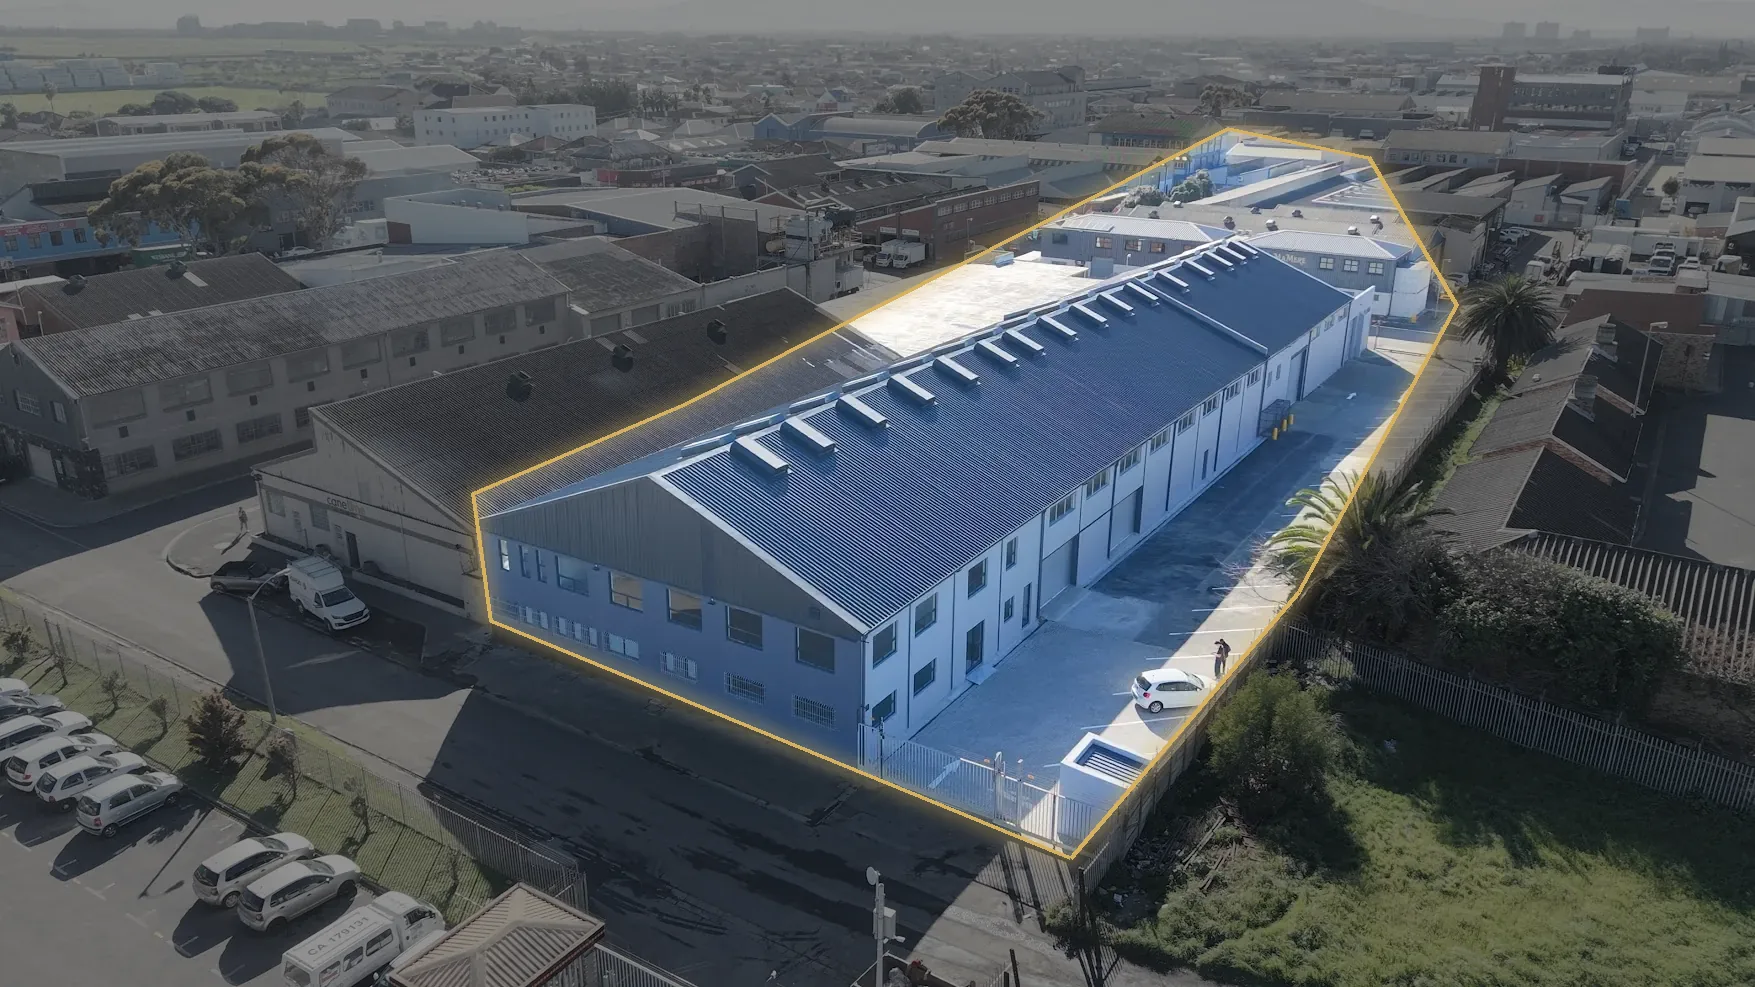
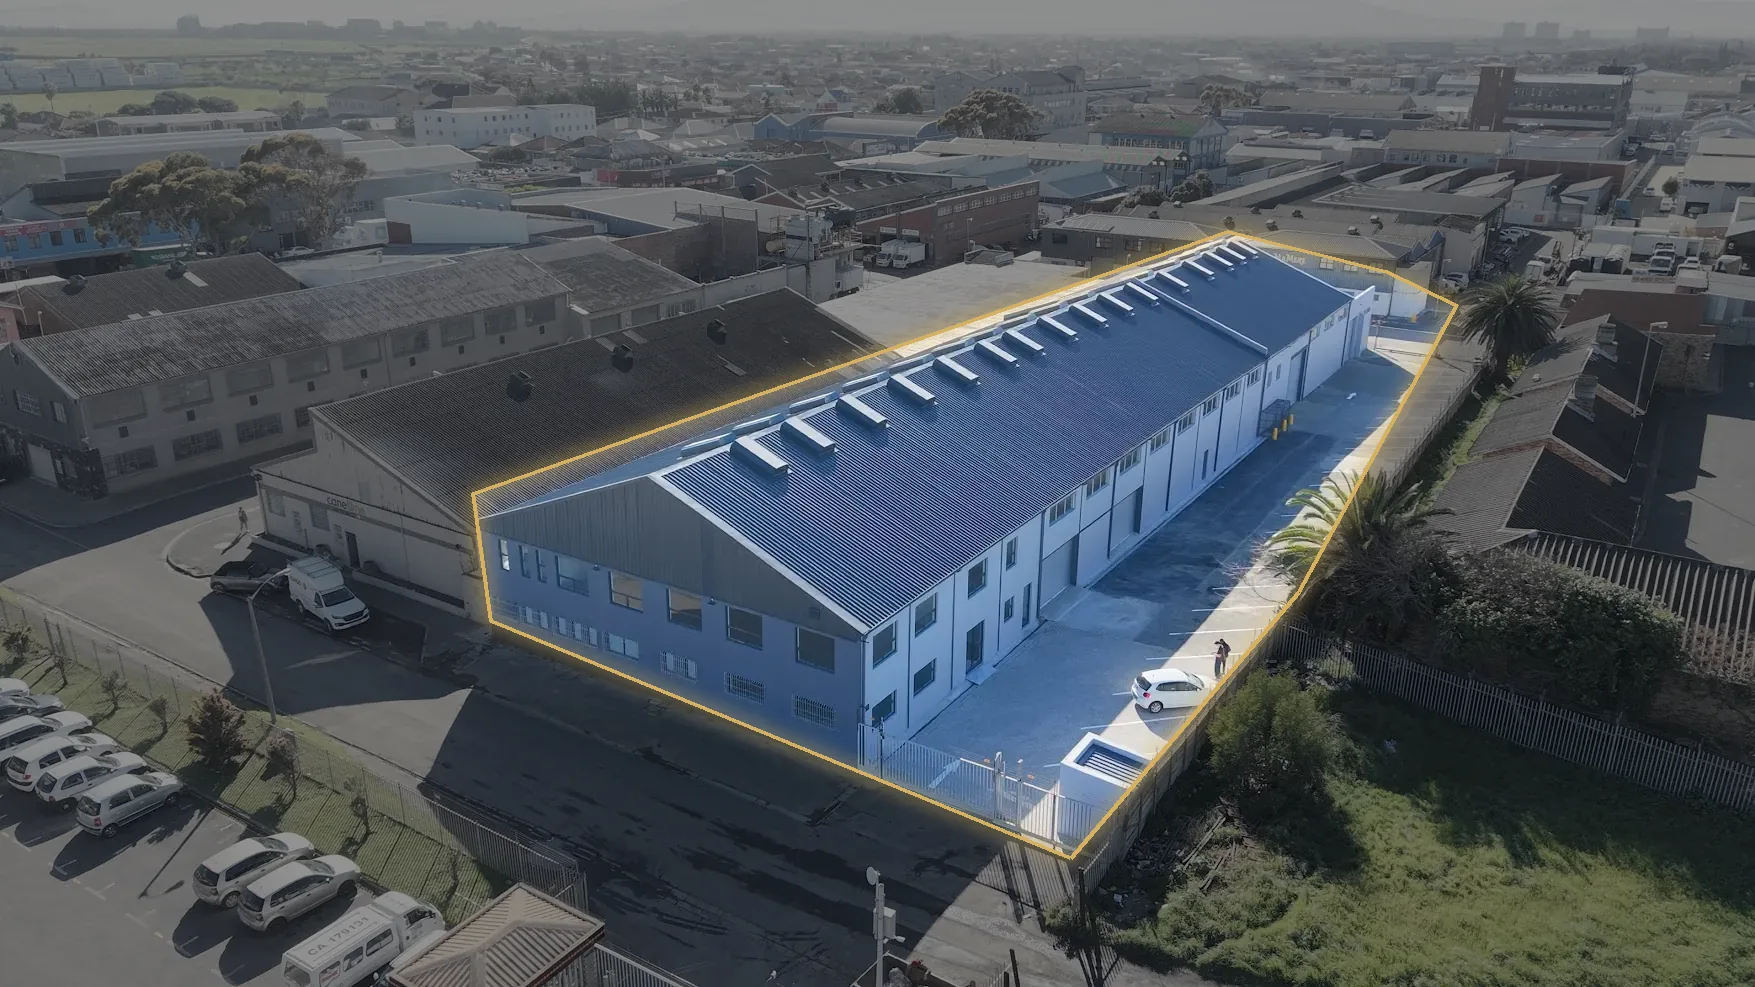
Tighten the Loop Street outline; real Canvas events and solar photos
The 9 Loop Street hero and before outlines now stop at the back of our
building instead of running onto the neighbouring properties. Canvas gets
its own photos for events (case study) and rooftop solar (case study,
Sustainability page and its hero slides), resized to webp with blur
previews; the solar stand-in is removed.

Claude-Session: https://claude.ai/code/session_01BD6pcECZbyAXh6RgtrXw5H

Changed region(s): [[0.3385, 0.1216, 0.8308, 0.4559], [0.2769, 0.4559, 0.3385, 0.4863]]

diff --git a/src/lib/media.ts b/src/lib/media.ts
@@ -24,7 +24,6 @@ import photo_canvas_breakout from "@/assets/photos/canvas-breakout.webp";
 import photo_canvas_desks_detail from "@/assets/photos/canvas-desks-detail.webp";
 import photo_canvas_gym from "@/assets/photos/canvas-gym.webp";
 import photo_canvas_terrace from "@/assets/photos/canvas-terrace.webp";
-import photo_canvas_presentation from "@/assets/photos/canvas-presentation.webp";
 import photo_canvas_meeting_room from "@/assets/photos/canvas-meeting-room.webp";
 import photo_canvas_garden_corridor from "@/assets/photos/canvas-garden-corridor.webp";
 import photo_canvas_atrium from "@/assets/photos/canvas-atrium.webp";
@@ -69,6 +68,8 @@ import photo_wierda_open_plan from "@/assets/photos/wierda-open-plan.webp";
 import photo_wierda_roses from "@/assets/photos/wierda-roses.webp";
 import photo_wierda_lobby from "@/assets/photos/wierda-lobby.webp";
 
+import photo_canvas_events from "@/assets/photos/canvas-events.webp";
+import photo_canvas_solar from "@/assets/photos/canvas-solar.webp";
 import photo_loop_aerial from "@/assets/photos/loop-aerial-site.webp";
 import photo_loop_warehouse from "@/assets/photos/loop-warehouse.webp";
 import photo_loop_mezzanine from "@/assets/photos/loop-mezzanine.webp";
@@ -287,12 +288,12 @@ export const media = {
       "Small boutique gym in a converted warehouse, rubber floor, timber wall slats, racks of dumbbells and two rowing machines, warm accent lighting, empty, early evening.",
   }),
   canvasEvents: shot({
-    title: "Canvas · in session",
-    alt: "A presentation in a Canvas meeting space",
+    title: "Canvas · events",
+    alt: "An evening event at Brickfield Canvas: guests at cocktail tables, with the bar against the brick wall behind",
     aspect: "4/3",
     tone: "dusk",
-    src: photo_canvas_presentation,
-    focus: "40% 45%",
+    src: photo_canvas_events,
+    focus: "42% 55%",
     prompt:
       "Evening community event in a brick courtyard, festoon string lights, people standing in small groups holding drinks, all slightly out of focus, warm dusk sky.",
   }),
@@ -318,9 +319,11 @@ export const media = {
   }),
   canvasSolar: shot({
     title: "Canvas · rooftop solar",
-    alt: "Rooftop solar array at Brickfield Canvas",
+    alt: "Rows of solar panels across the roof at Brickfield Canvas, seen from a drone, with the parking below",
     aspect: "16/9",
     tone: "stone",
+    src: photo_canvas_solar,
+    focus: "50% 45%",
     prompt:
       "Aerial drone view of rows of solar PV panels on an industrial building roof in Woodstock, Cape Town, city grid and Table Mountain in the background, crisp clear afternoon light.",
   }),
@@ -1122,7 +1125,6 @@ import si_711614b0 from "@/assets/stand-in/711614b0.webp";
 import si_97512505 from "@/assets/stand-in/97512505.webp";
 import si_9c720f5d from "@/assets/stand-in/9c720f5d.webp";
 import si_b23d9d70 from "@/assets/stand-in/b23d9d70.webp";
-import si_b772ec77 from "@/assets/stand-in/b772ec77.webp";
 import si_c9344f4f from "@/assets/stand-in/c9344f4f.webp";
 import si_d1597a16 from "@/assets/stand-in/d1597a16.webp";
 import si_d53154cb from "@/assets/stand-in/d53154cb.webp";
@@ -1138,7 +1140,6 @@ export const standIns: Partial<Record<MediaId, { src: string; focus: string }>> 
   cleaningDetail: { src: si_cleaning_detail, focus: "70% 50%" },
   securityTeam: { src: si_security_control, focus: "40% 70%" },
   securityControl: { src: si_security_control, focus: "35% 65%" },
-  canvasSolar: { src: si_b772ec77, focus: "50% 60%" },
   loopBefore: { src: si_b23d9d70, focus: "50% 55%" },
   loopPower: { src: photo_loop_ventilation, focus: "50% 55%" },
   loopFabrication: { src: photo_loop_warehouse_light, focus: "50% 55%" },

diff --git a/src/lib/media-lqip.ts b/src/lib/media-lqip.ts
@@ -194,4 +194,8 @@ export const LQIP: Record<string, string> = {
[1 lines of base64/hex data omitted]
   "montague-placeholder":
[1 lines of base64/hex data omitted]
+  "canvas-events":
[1 lines of base64/hex data omitted]
+  "canvas-solar":
[1 lines of base64/hex data omitted]
 };

diff --git a/scripts/site-outline.py b/scripts/site-outline.py
@@ -13,8 +13,8 @@ GOLD = (214, 176, 96)
 
 SITES = {
     # 9 Loop Street, Maitland
-    "loop-aerial.webp": [(27, 50), (39, 41), (70, 13), (78, 16), (83, 31), (74, 60), (61, 87), (50, 79), (28, 63)],
-    "loop-before-aerial.jpg": [(29, 53), (39, 46), (70, 15), (74, 17), (79, 36), (70, 60), (61, 84), (50, 76), (29, 68)],
+    "loop-aerial.webp": [(27, 50), (70, 23.5), (79, 27.5), (83, 31), (74, 60), (61, 87), (50, 79), (28, 63)],
+    "loop-before-aerial.jpg": [(29, 53), (70, 24.5), (75, 26.5), (79, 36), (70, 60), (61, 84), (50, 76), (29, 68)],
     "loop-aerial-angle.webp": [(25, 33), (30, 21), (48, 21), (92, 62), (91, 74), (69, 97), (48, 98), (40, 80), (26, 42)],
     "loop-top-down.webp": [(22, 35), (94, 35), (94, 80), (22, 80)],
 }
